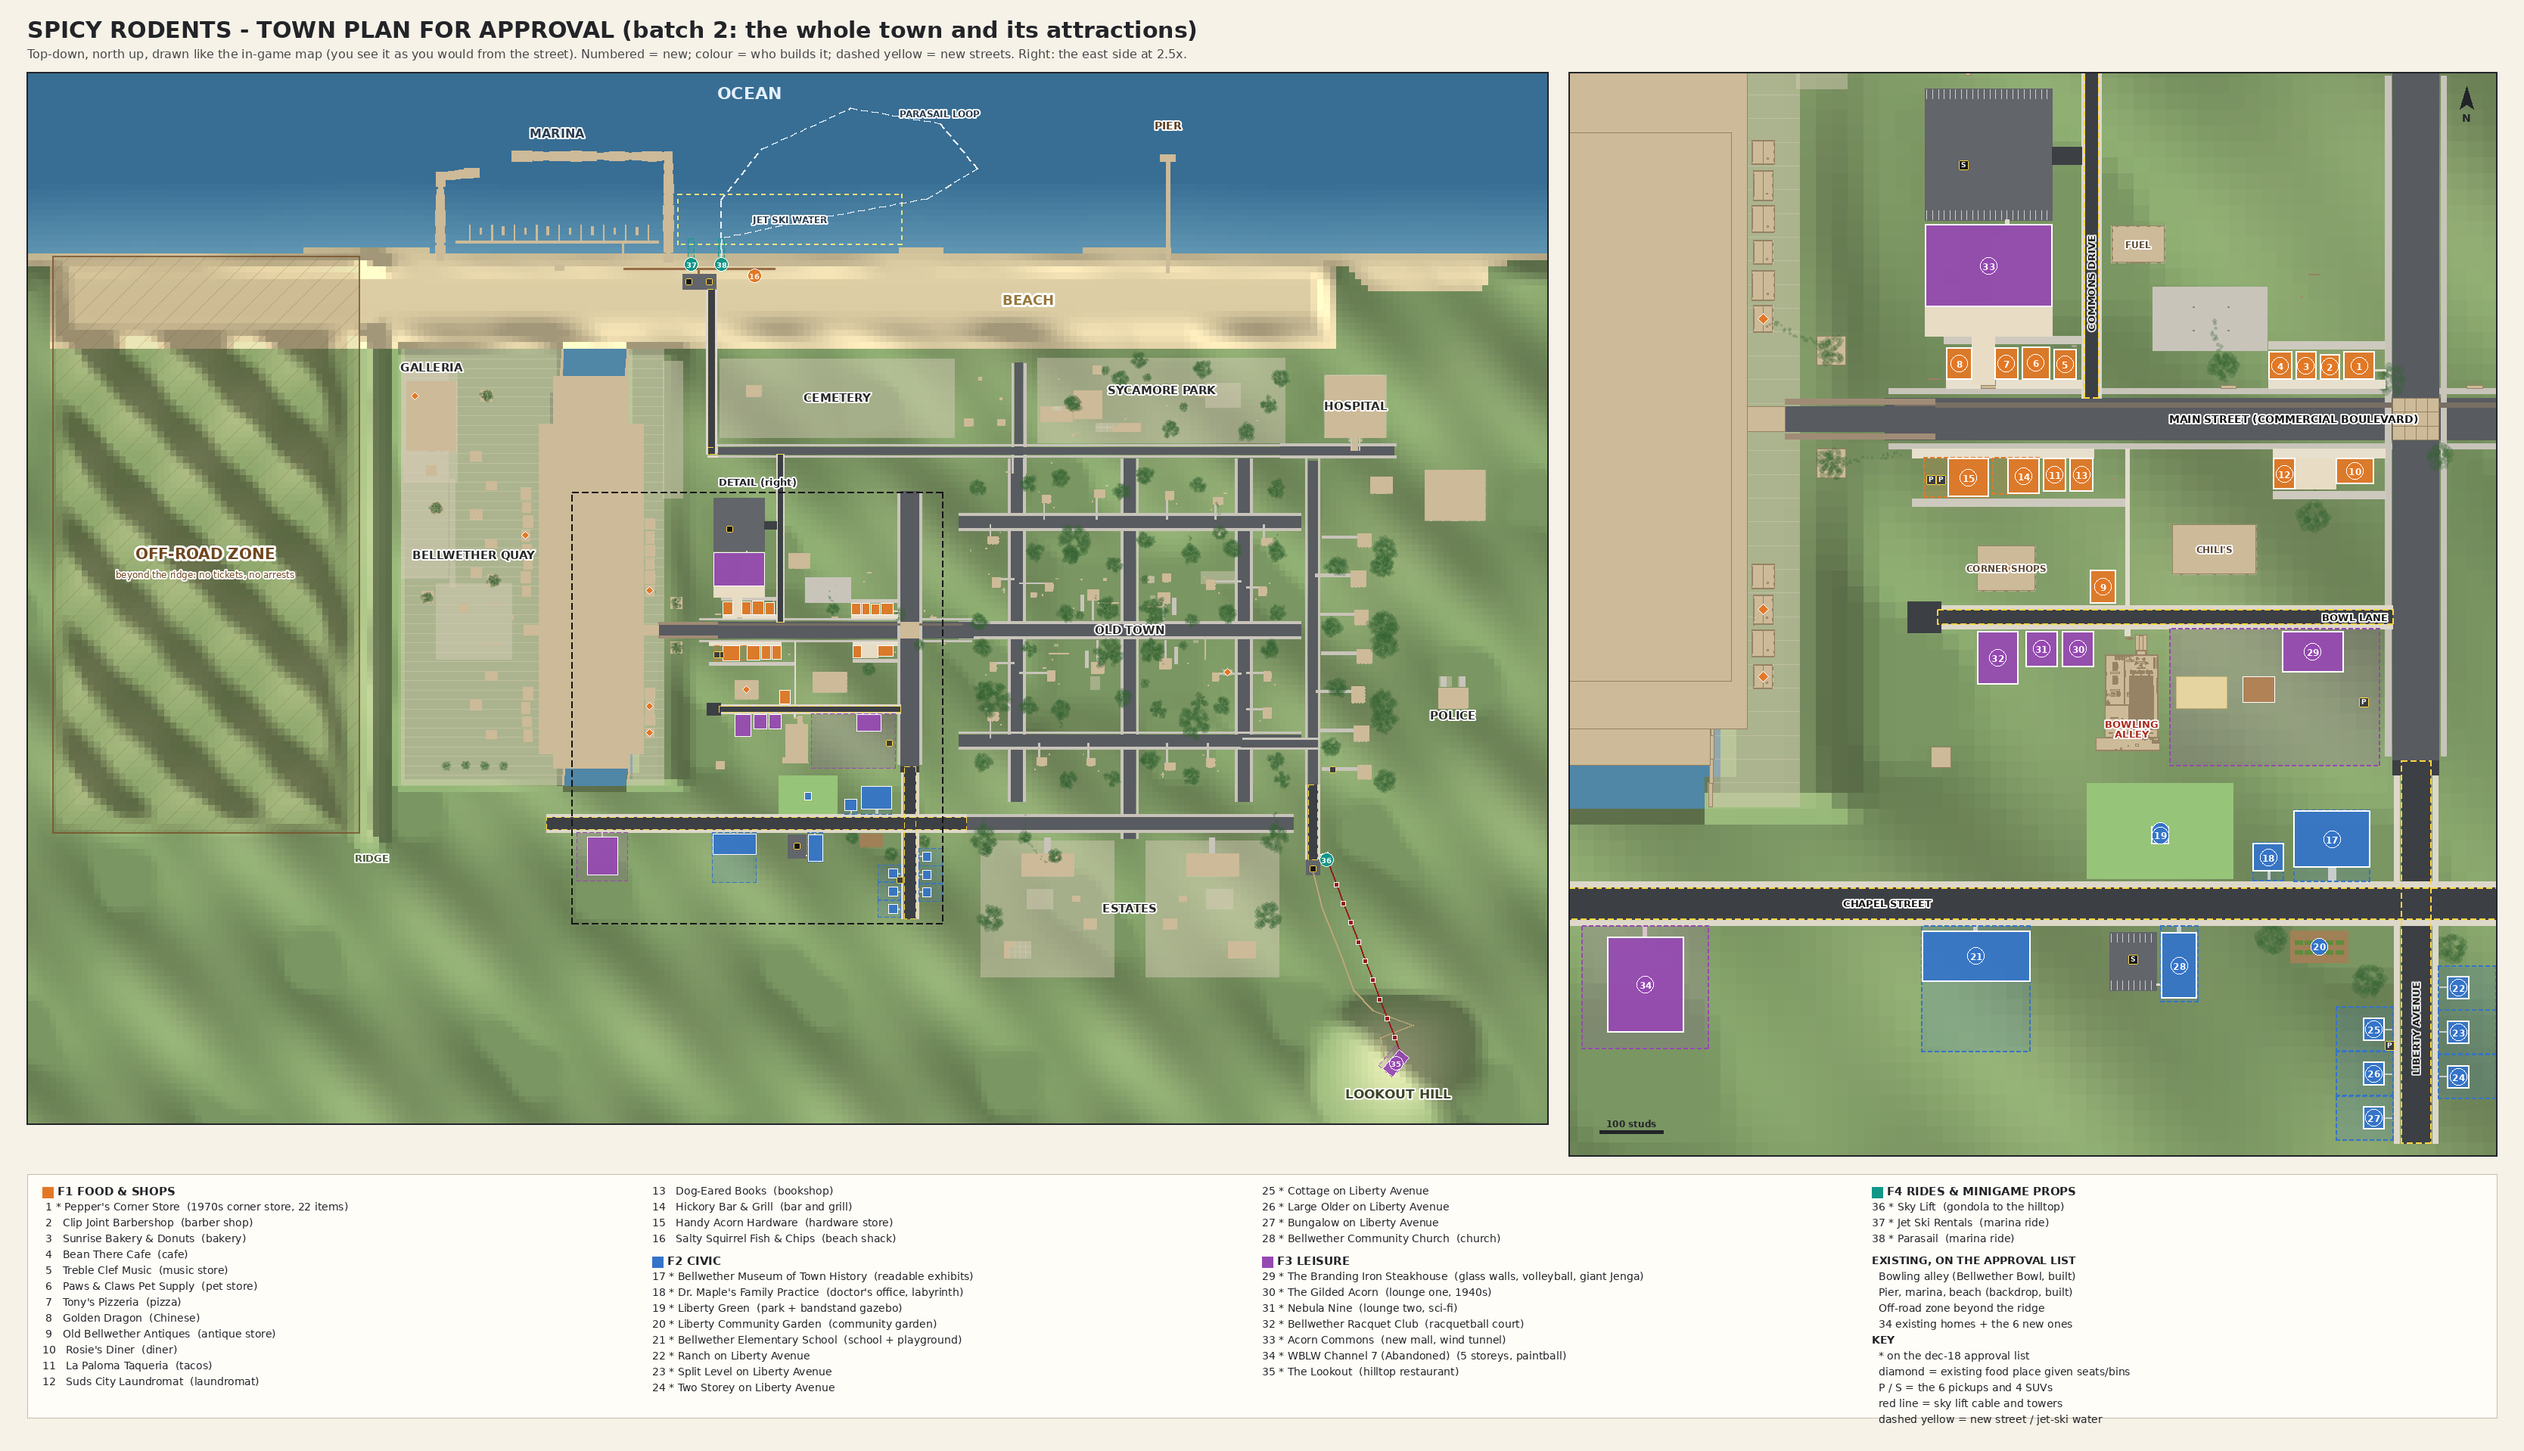
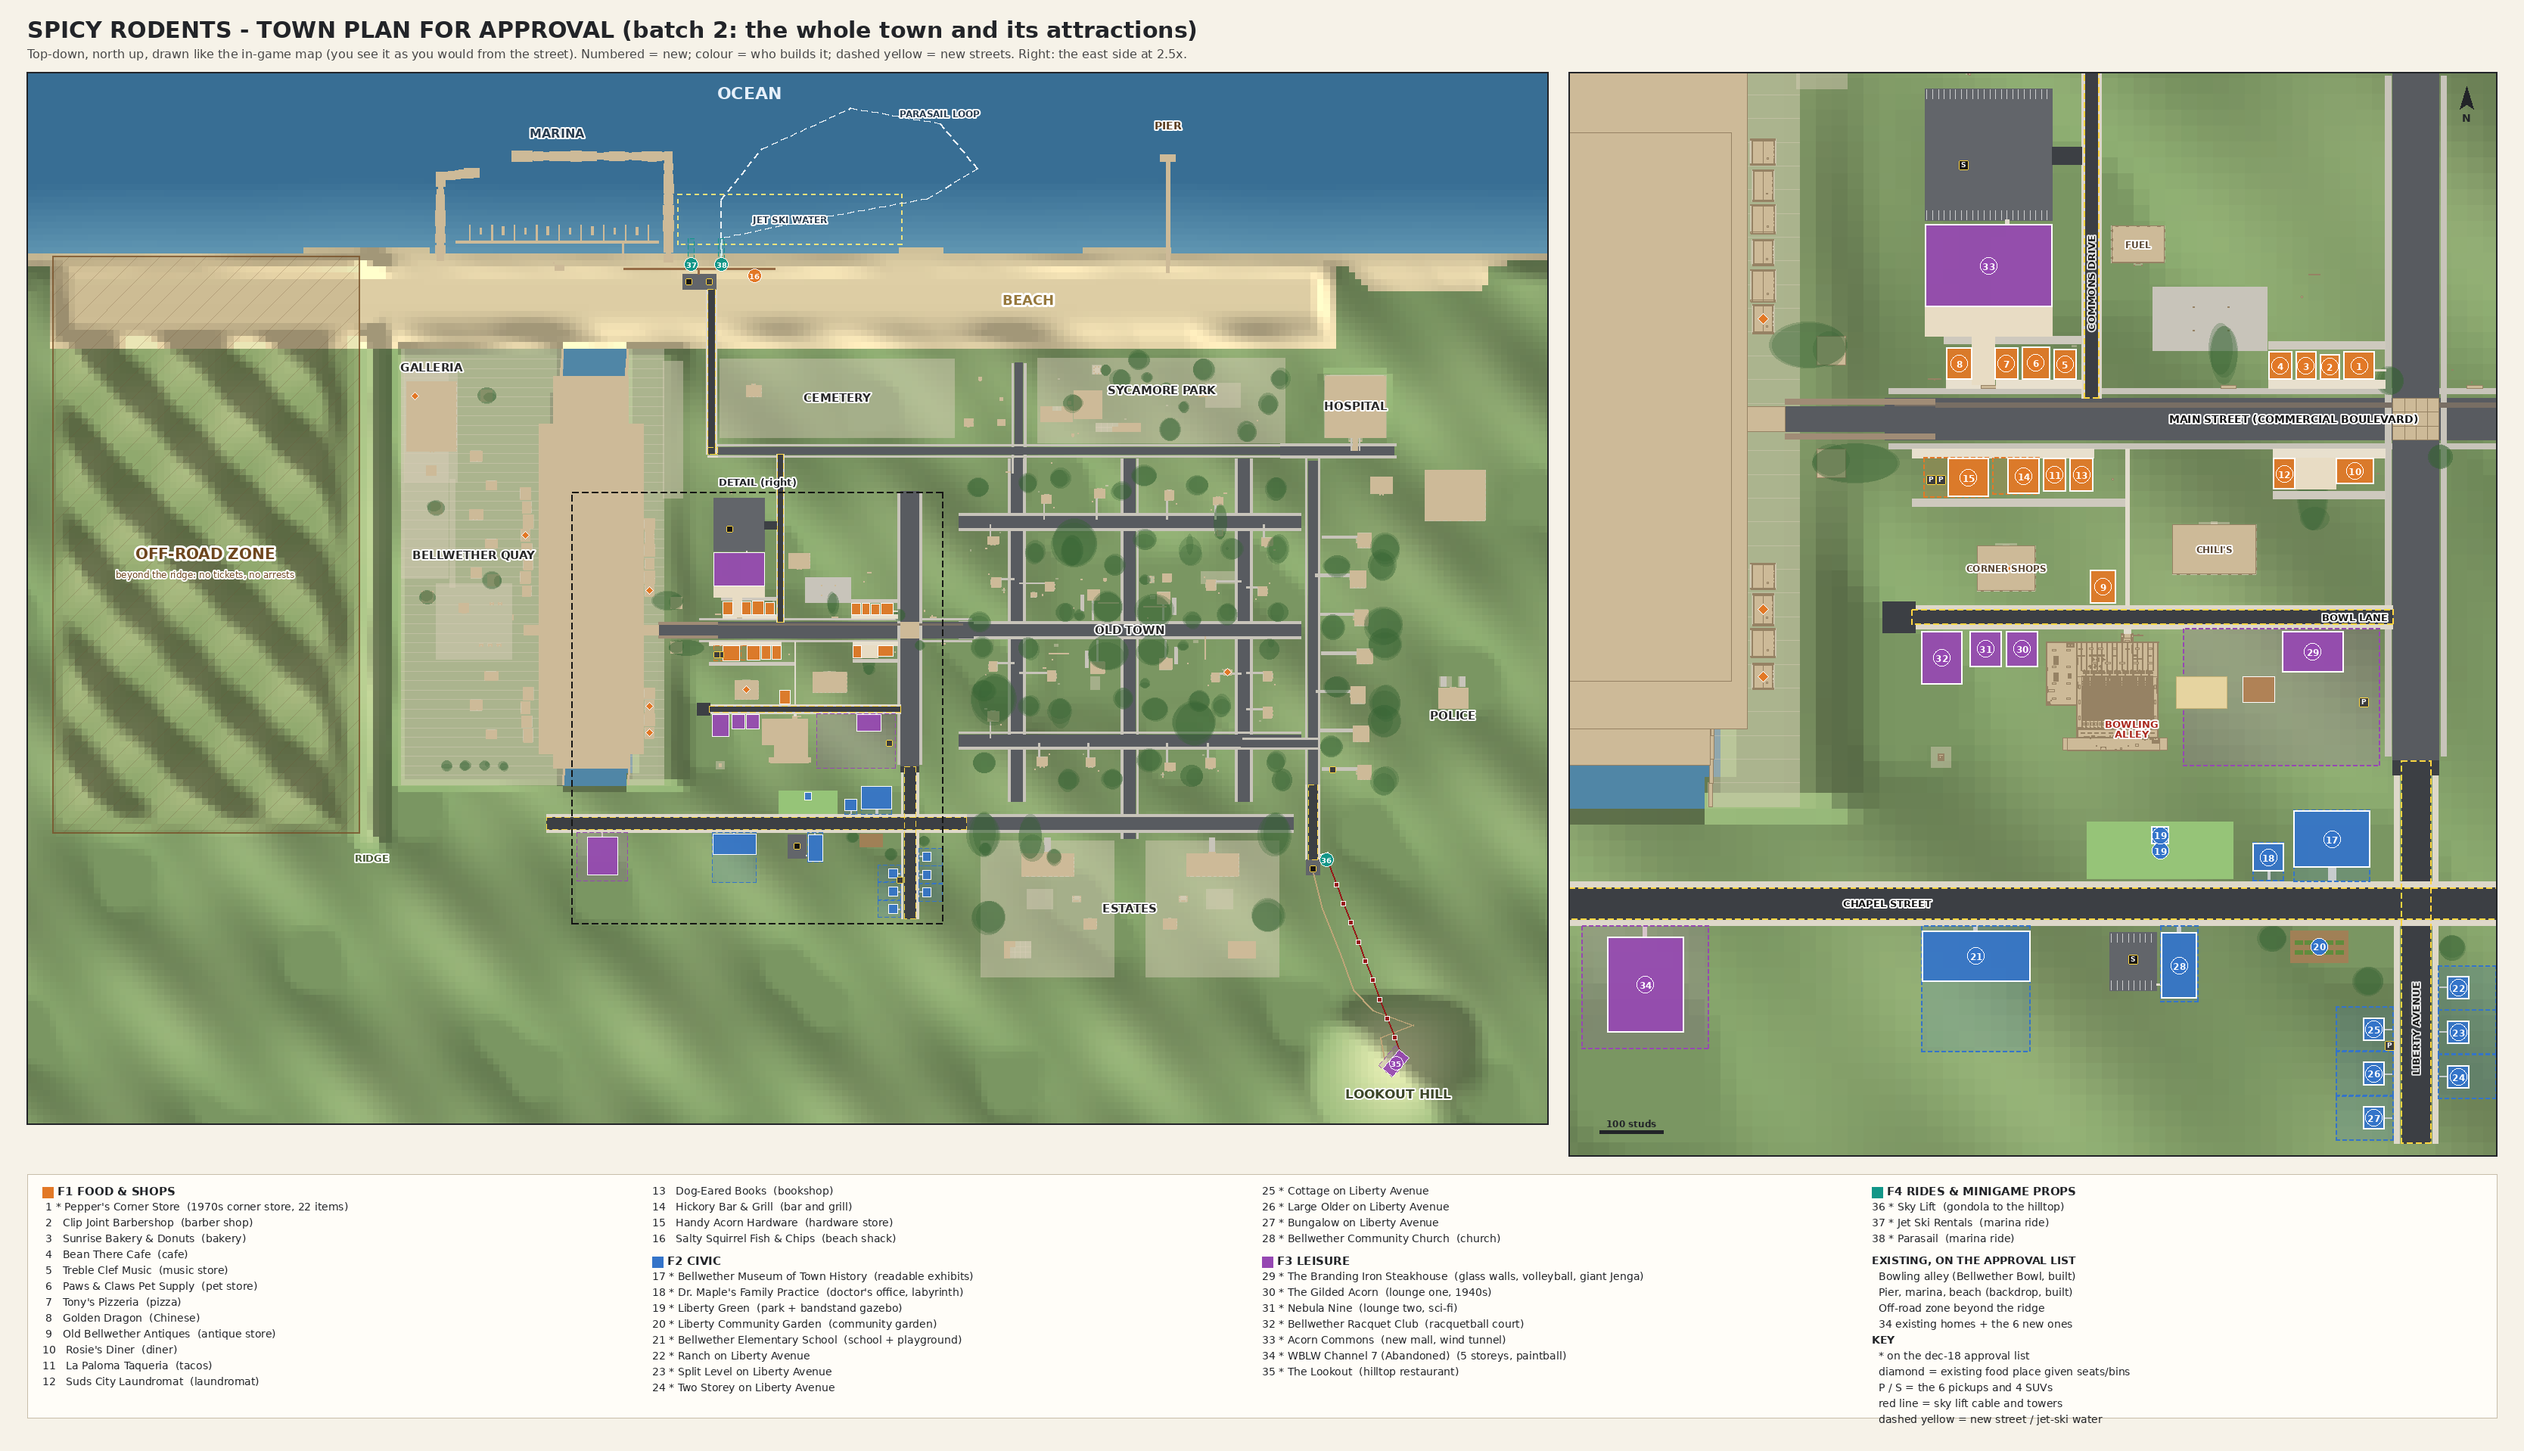
Bowling alley: the lobby and the shops have light plaster walls; the approval map and the batch spec follow the moved site
The front rooms' cross walls are light plaster and the walls toward the concourse and the games room the hall's
upper-wall blue (they were all navy: the lobby read as a dark tunnel in the review pictures). The owner's
approval map is re-rendered from the data as it now stands (the eighteen-lane alley, the two lounges and the
racquet club 88 studs east, the shorter Liberty Green), and the batch spec's table rows say the same.

Claude-Session: https://claude.ai/code/session_01M7kvU21XVNfCAcdQZ7o6vh

diff --git a/docs/waves/BATCH2_SPEC.md b/docs/waves/BATCH2_SPEC.md
@@ -70,7 +70,7 @@ town looks from the street. The data and these docs keep the v5.4 naming (`east_
 
 | id | name | runs | asphalt | sidewalks | meets existing |
 |---|---|---|---|---|---|
-| `xs_bowl_lane` | BOWL LANE | along x at z -312, x 903.75..1620 | 24 | 6 @ ±15 | cross street (rd_022, rd_024) |
+| `xs_bowl_lane` | BOWL LANE | along x at z -312, x 903.75..1660 | 24 | 6 @ ±15 | cross street (rd_022, rd_024) |
 | `xs_liberty_ave` | LIBERTY AVENUE | along z at x 867.5, z -1140..-537.5 | 45 | 8.25 @ ±30.25 | cross street end (rd_022) via `xp_liberty_taper` |
 | `xs_chapel_st` | CHAPEL STREET | along x at z -762.5, x 645..2300 | 50 | 8.75 @ ±30.25 | estate avenue end (rd_037/038/039) |
 | `xs_lift_road` | LIFT ROAD | along z at x -722.5, z -905..-610 | 37.5 | 6.25 @ ±25 | westside street end (rd_071/072/073) |
@@ -133,7 +133,7 @@ and one short walk per door that is more than 16 st from the network. **Owner of
 |---|---|---|---|---|---|---|---|
 | `f2_museum` | BELLWETHER MUSEUM OF TOWN HISTORY | 1000, -661 | -Z | 120 x 90 | 3 (0.25..2.41) | 2 / 34 | 1200 |
 | `f2_doctor` | DR. MAPLE'S FAMILY PRACTICE | 1100, -690 | -Z | 48 x 44 | 5.3 (0.91..4.71) | 1 / 15 | 650 |
-| `f2_liberty_green` | LIBERTY GREEN | 1270, -649 | -Z | 230 x 150 | 10.93 (5.51..10.93) | lawn | 500 |
+| `f2_liberty_green` | LIBERTY GREEN | 1270, -679 | -Z | 230 x 90 | 10.34 (5.75..10.34) | lawn | 500 |
 | `f2_gazebo` | LIBERTY BANDSTAND (inside the green) | 1270, -655 | -Z | 28 x 28 | 9.9 (8.74..9.35) | 1 / 16 | 250 |
 | `f2_community_garden` | LIBERTY COMMUNITY GARDEN | 1020, -830 | +Z | 90 x 50 | 1.59 (0.25..1.59) | lawn | 350 |
 | `f2_school` | BELLWETHER ELEMENTARY SCHOOL | 1560, -845 | +Z | 170 x 80 | 20.9 (16.93..20.31) | 2 / 30 | 1500 |
@@ -149,10 +149,10 @@ and one short walk per door that is more than 16 st from the network. **Owner of
 
 | id | name | at (x, z) | facing | footprint w x d | floorY (ground min..max) | storeys / height | part budget |
 |---|---|---|---|---|---|---|---|
-| `f3_steakhouse` | THE BRANDING IRON STEAKHOUSE | 1030, -366 | +Z | 96 x 64 (site 330 x 215) | 18.2 (14.07..17.61) | 1 / 20 | 1700 |
-| `f3_lounge_classic` | THE GILDED ACORN | 1399, -362 | +Z | 50 x 56 | 14.5 (10.64..13.92) | 1 / 22 | 1300 |
-| `f3_lounge_scifi` | NEBULA NINE | 1457, -362 | +Z | 50 x 56 | 11.6 (7.31..11.03) | 1 / 24 | 1300 |
-| `f3_racquet_club` | BELLWETHER RACQUET CLUB | 1526, -376 | +Z | 64 x 84 | 7.2 (0.78..6.63) | 1 / 30 | 650 |
+| `f3_steakhouse` | THE BRANDING IRON STEAKHOUSE | 1030, -366 | +Z | 96 x 64 (site 309 x 215) | 18.2 (14.07..17.61) | 1 / 20 | 1700 |
+| `f3_lounge_classic` | THE GILDED ACORN | 1487, -362 | +Z | 50 x 56 | 9.5 (4.95..8.94) | 1 / 22 | 1300 |
+| `f3_lounge_scifi` | NEBULA NINE | 1545, -362 | +Z | 50 x 56 | 5.7 (0.44..5.19) | 1 / 24 | 1300 |
+| `f3_racquet_club` | BELLWETHER RACQUET CLUB | 1614, -376 | +Z | 64 x 84 | 2.6 (0.25..2.1) | 1 / 30 | 650 |
 | `f3_mall` | ACORN COMMONS | 1540, 241 | -Z | 200 x 130 | 7.7 (0.25..7.16) | 2 / 32 | 2000 |
 | `f3_tv_station` | WBLW CHANNEL 7 (ABANDONED) | 2080, -890 | +Z | 120 x 150 | 8.6 (0.25..8.06) | 5 / 72 | 3500 |
 | `f3_hilltop` | THE LOOKOUT (+ sky-lift summit hall) | -1050, -1710 | yaw 0.85 (NE, toward town) | 100 x 50 | 116 (108.6..115.41) | 1 / 18 | 1000 |
